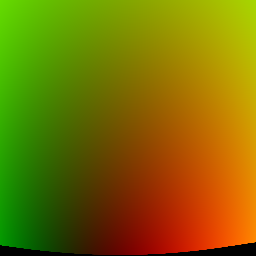
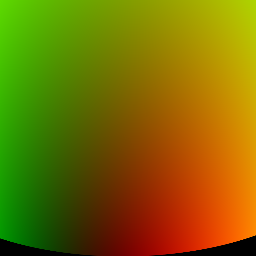
Fixed dome UV maps, added hunter and gatherer prefabs, shaman soundfx, hunter spritefix

diff --git a/JourneyOnTheWall/Assets/Scripts/Shaman.cs b/JourneyOnTheWall/Assets/Scripts/Shaman.cs
@@ -3,8 +3,11 @@ using System.Collections;
 
 namespace JourneyOnTheWall
 {
+	[RequireComponent(typeof(AudioSource))]
 	public class Shaman : ClanMember 
 	{
+		[SerializeField]
+		private AudioClip healingSound;
 		[SerializeField]
 		private float healingPower = 10;
 		[SerializeField]
@@ -13,6 +16,12 @@ namespace JourneyOnTheWall
 		private Animator anim;
 
 		private float lastHealed;
+
+
+		void Awake()
+		{
+			gameObject.AddComponent<AudioSource> ();			
+		}
 
 		public override void OnCollision (Collidable other)
 		{
@@ -25,6 +34,9 @@ namespace JourneyOnTheWall
 				if (combatActor.Damage > 0 && Time.time > lastHealed + healingInterval)
 				{
 					lastHealed = Time.time;
+
+					if (healingSound) 
+						audio.PlayOneShot (healingSound, 0.6F);
 					combatActor.Heal(healingPower);
 					Debug.Log("Shaman healed", other.gameObject);
 					anim.SetTrigger("Magic");
